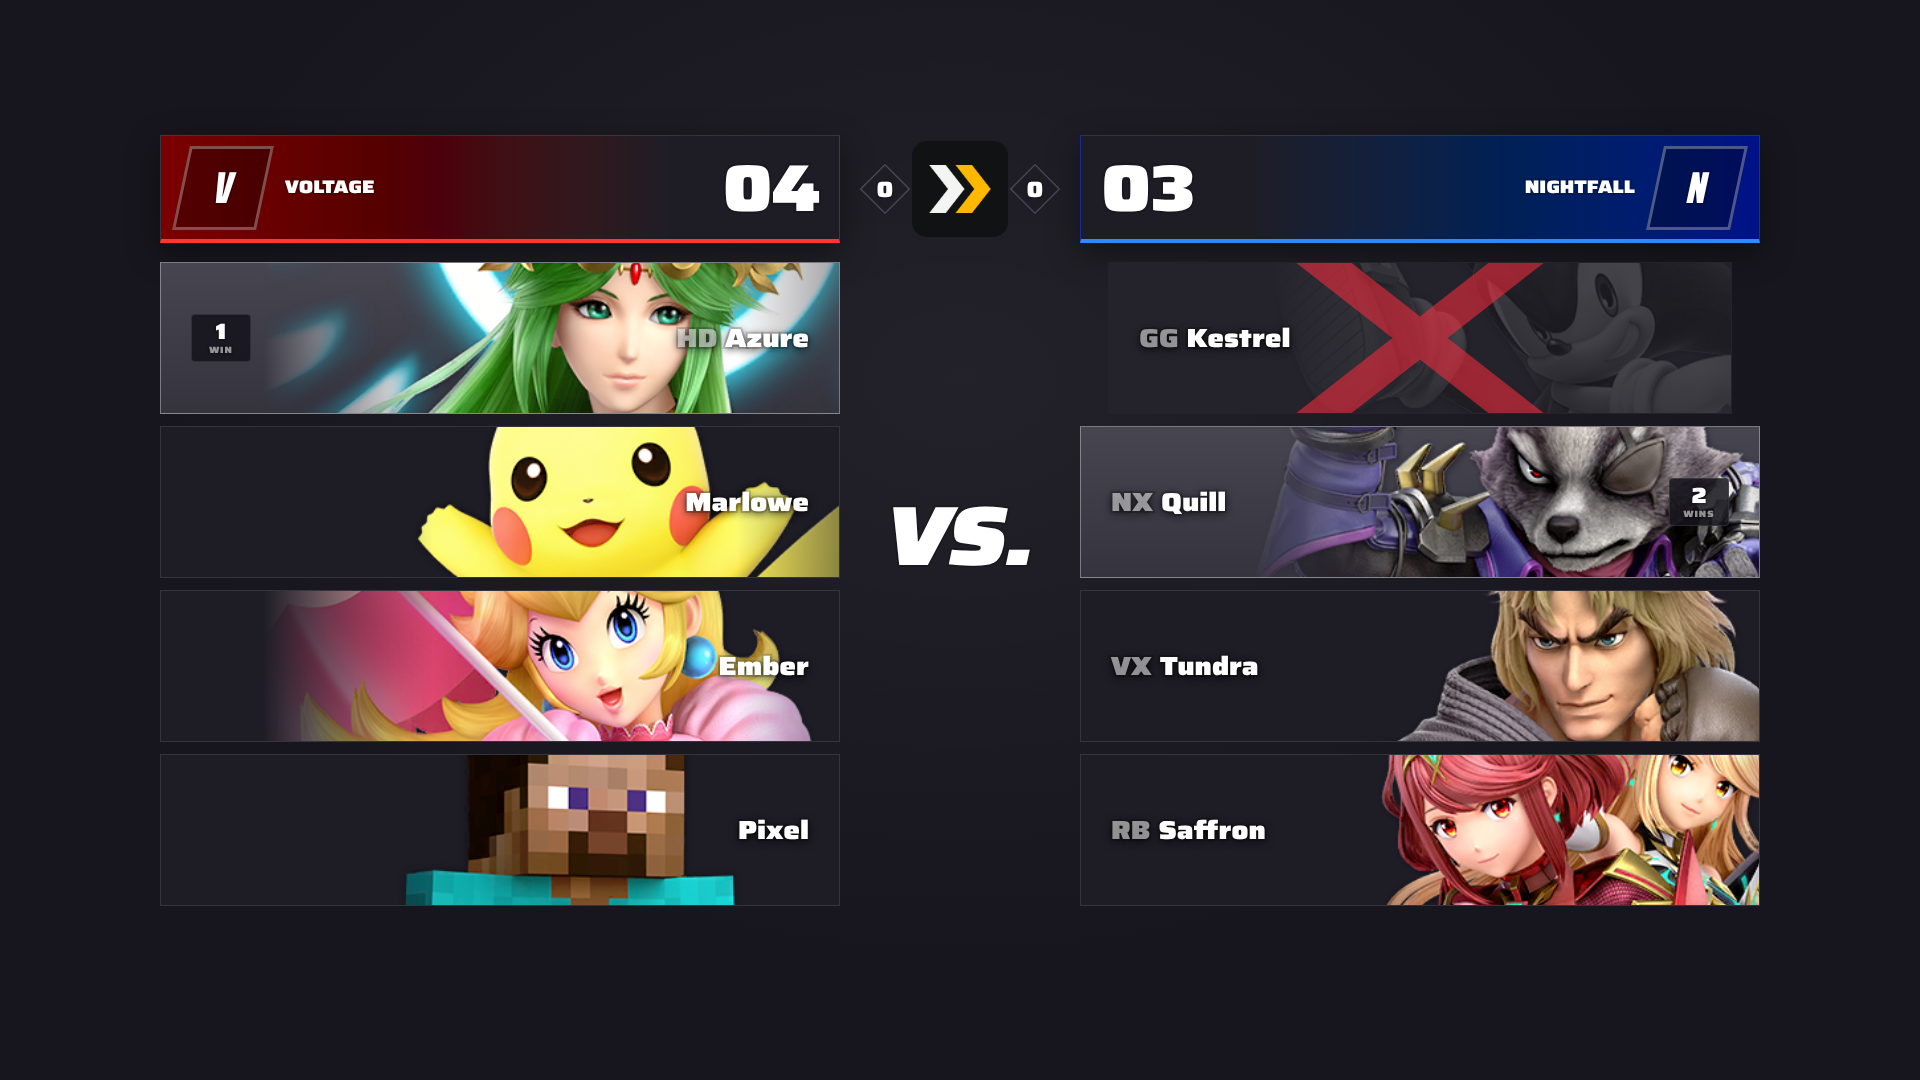
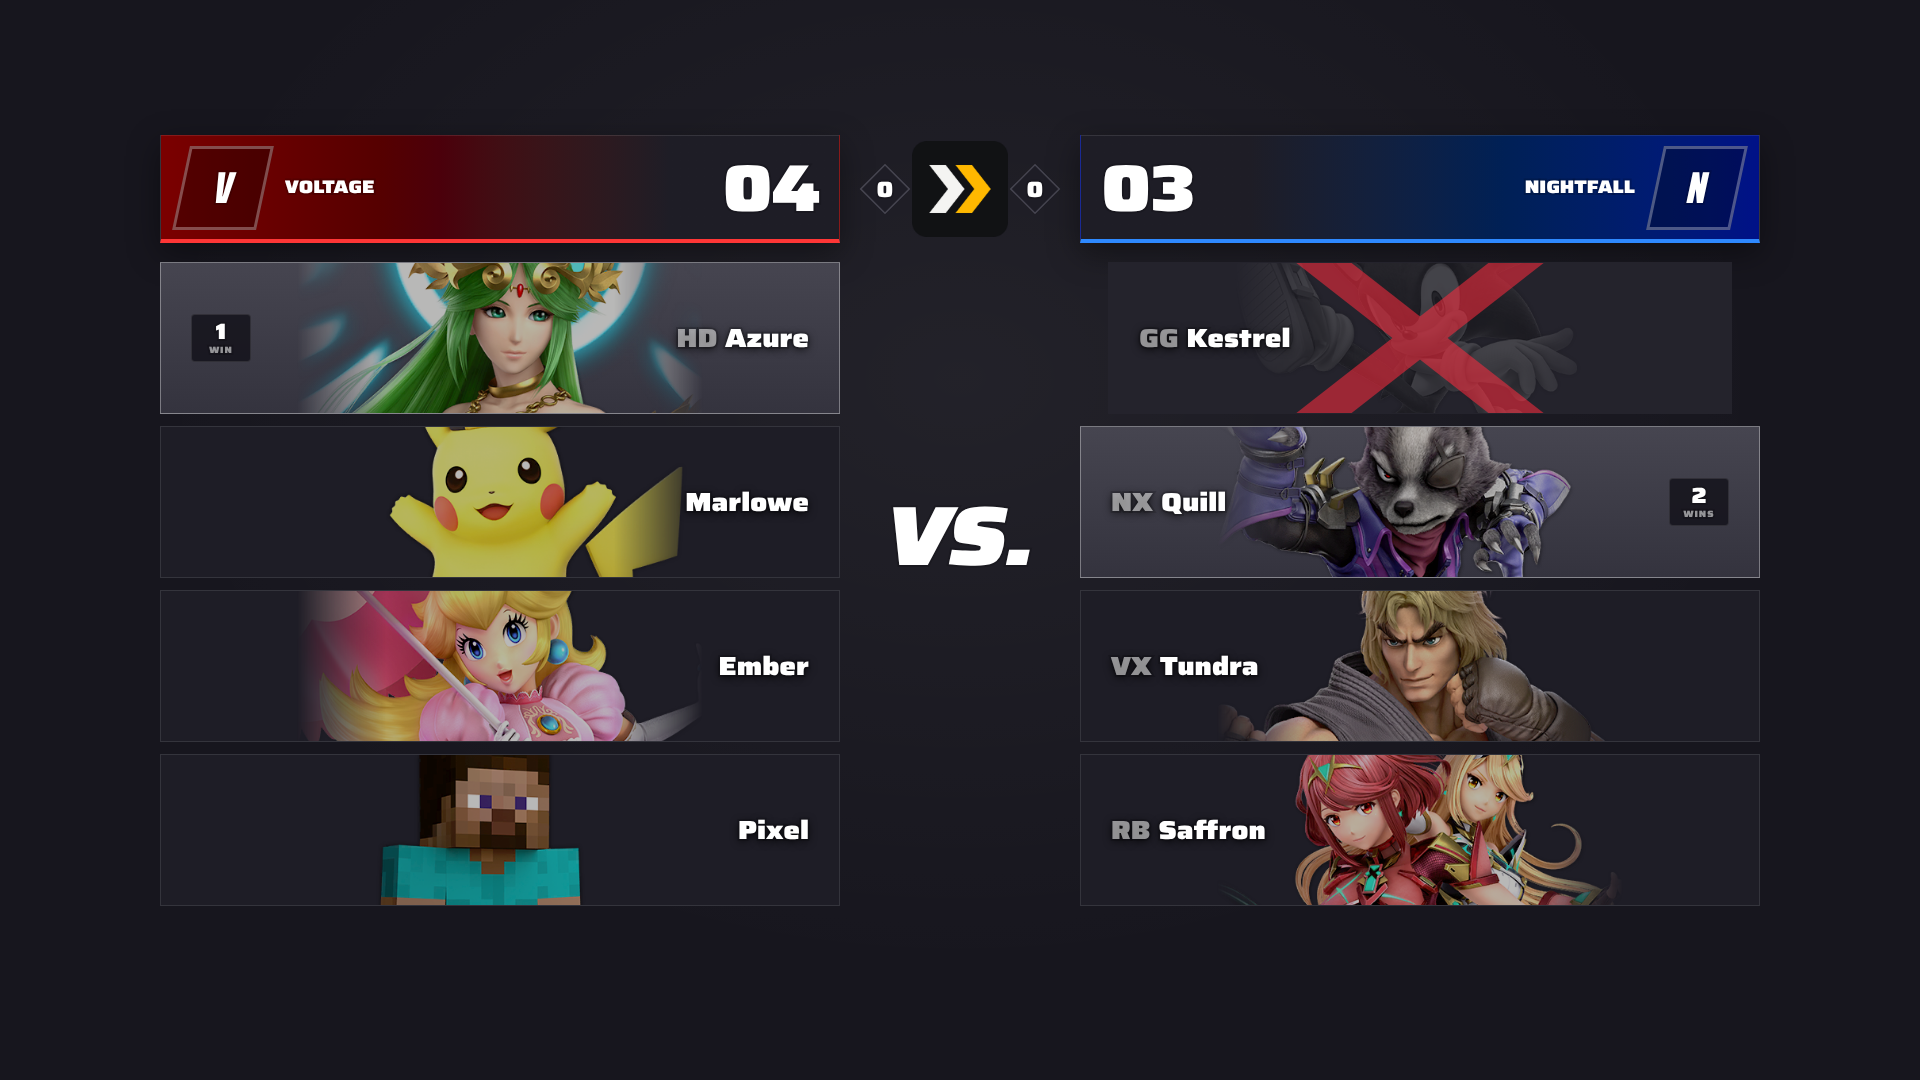
Nexus - Teams Overview: center and dim the character art
The character art is centered in its card: main.css's 100% width on
character containers had made it as wide as the card from 20% in, so
it ran off the card's side and the character sat right of center. The
art is also dimmed a bit, so bright art doesn't glare.

Claude-Session: https://claude.ai/code/session_01YJ2QjCdMiVmGchrGpSQ8FB

Changed region(s): [[0.125, 0.2444, 0.4375, 0.8556], [0.625, 0.2444, 0.9375, 0.8556], [0.7188, 0.2444, 0.7812, 0.275]]

diff --git a/layout/Nexus - Teams Overview/nexus.css b/layout/Nexus - Teams Overview/nexus.css
@@ -213,16 +213,20 @@
   background: rgba(20, 19, 27, 0.8);
 }
 
+/* The character, centered in the card and dimmed a bit so bright art
+   doesn't glare (eliminated players' are grey and darker, from
+   team_battle.css) */
 .nx_render {
   position: absolute;
-  inset: 0 25% 0 15%;
+  top: 0;
+  left: 20%;
+  /* Over main.css's character container's 100% */
+  width: 60%;
+  height: 100%;
   overflow: hidden;
   isolation: isolate;
-  -webkit-mask-image: linear-gradient(90deg, transparent 0%, #000 25%, #000 70%, transparent 100%);
-}
-
-.nx_team.t2 .nx_render {
-  inset: 0 15% 0 25%;
+  filter: brightness(0.72);
+  -webkit-mask-image: linear-gradient(90deg, transparent 0%, #000 22%, #000 78%, transparent 100%);
 }
 
 .nx_card.dead .nx_render {
